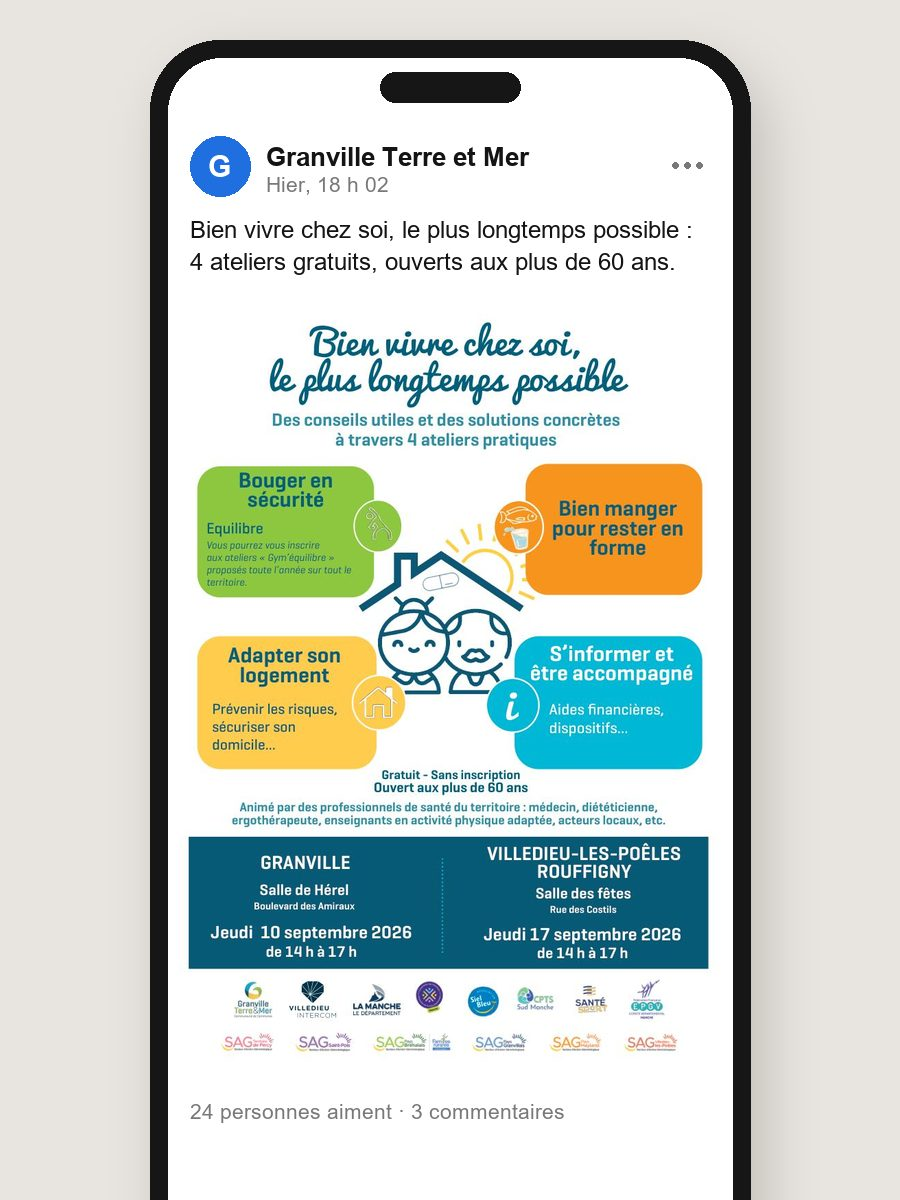
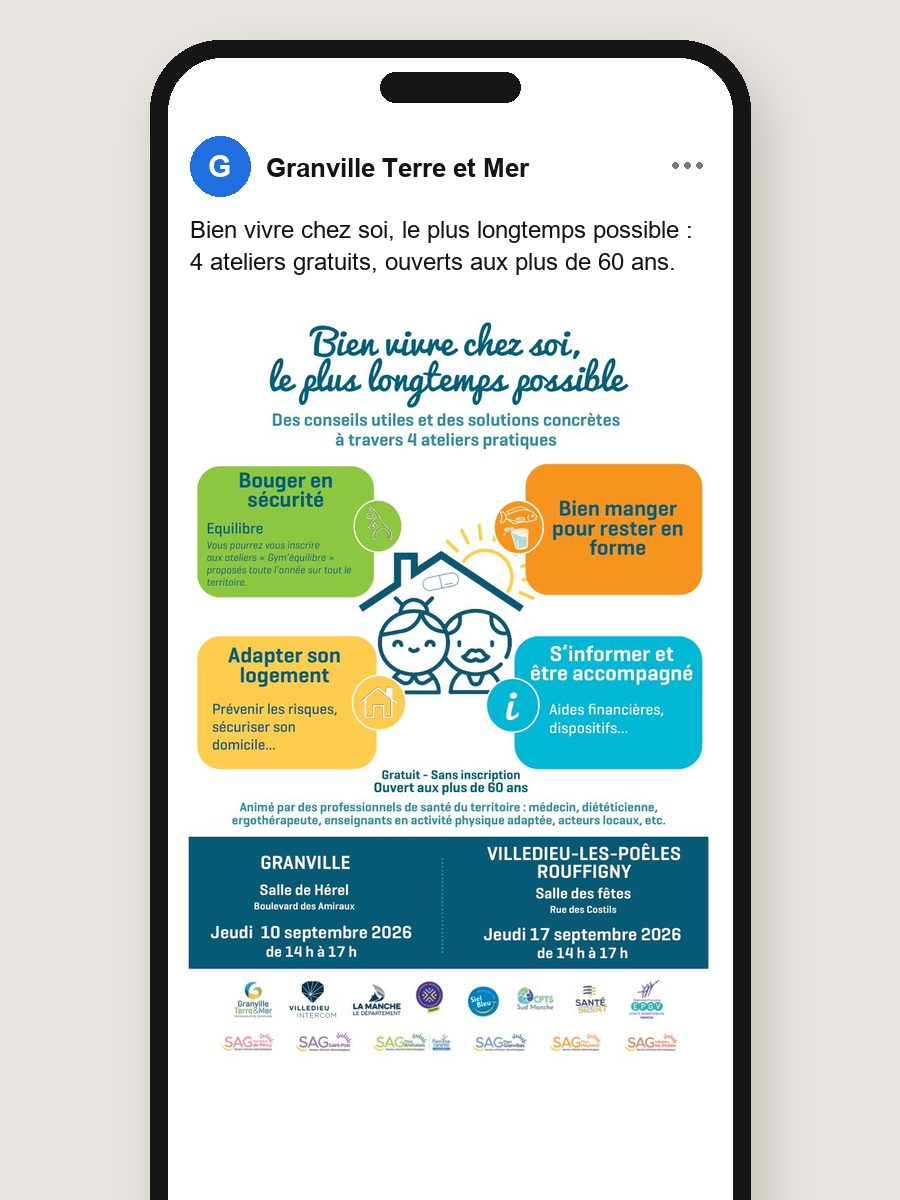
Nettoyage : plus de chiffres inventés ni de texte de remplissage, consignes raccourcies

Changed region(s): [[0.28, 0.1233, 0.5911, 0.1542], [0.2178, 0.925, 0.4356, 0.9558], [0.4978, 0.925, 0.6222, 0.9558]]

diff --git a/papier.html b/papier.html
@@ -131,8 +131,8 @@ function fiche(Q, carnet = 1, affiche = '') {
   return (G.trop && carnet === 1 ? `<p class="trop">Il y a trop de questions pour ce livret (huit par temps, trois temps) : masquez-en quelques-unes dans « Modifier le test ».</p>` : '') + `<div class="page fiche">
   <svg viewBox="0 0 420 297" xmlns="http://www.w3.org/2000/svg" font-family="'Scoutie Sans',Helvetica,Arial,sans-serif" fill="#151515">
     ${LIVRET_FOND}
-    ${T(117, 263.9, 'Votre affiche est en cours de Fabrication', 'font-size="3.3"')}${T(117, 267.8, 'Nous avons besoin de votre aide !', 'font-size="3.3"')}${T(117, 271.8, '...', 'font-size="3.3"')}${T(379.6, 278.4, 'Débattons !', 'font-size="4.04" font-weight="700"')}
-    ${T(111.6, 238, 'Carnet ' + carnet + ' sur 3 · Séance : ' + (EXEMPLE ? 'essai' : '..............') + ' · N° : ' + (EXEMPLE ? '1' : '........'), 'font-size="3.3" font-weight="700"')}${T(111.6, 243, 'Test ' + h(VERSION), 'font-size="2.4" fill="#6B6B6B"')}
+    ${T(117, 263.9, 'Votre affiche est en cours de Fabrication', 'font-size="3.3"')}${T(117, 267.8, 'Nous avons besoin de votre aide !', 'font-size="3.3"')}${T(379.6, 278.4, 'Débattons !', 'font-size="4.04" font-weight="700"')}
+    ${T(111.6, 238, 'Carnet ' + carnet + ' sur 3 · Séance : ' + (EXEMPLE ? 'essai' : '..............') + ' · N° : ' + (EXEMPLE ? '1' : '........'), 'font-size="3.3" font-weight="700"')}
     ${temps}${questions}
     ${REPERES.map(([x, y]) => `<circle cx="${x}" cy="${y}" r="3.5" fill="#000"/><circle cx="${x - 1}" cy="${y}" r=".65" fill="#fff"/><circle cx="${x + 1}" cy="${y}" r=".65" fill="#fff"/>`).join('')}
   </svg>
@@ -145,7 +145,7 @@ const affichesDispo = () => [...new Set(ETAPES.flatMap(e => [e.img, ...(e.imgs |
 const affichesCarnets = () => { const l = affichesDispo(); let c = []; try { c = JSON.parse(localStorage.getItem('pdvCarnets' + TEST)) || []; } catch (e) { } return [0, 1, 2].map(i => l.includes(c[i]) ? c[i] : l[i] || l[0] || ''); };
 let seul = 0; // 0 : les trois carnets ; 1, 2 ou 3 : ce carnet seulement (une feuille recto verso)
 const livrets = Q => { const A = affichesCarnets(), l = affichesDispo();
-  return `<div class="trop reglage"><b>Trois carnets par personne, un par affiche.</b> L'affiche imprimée au dos de chaque feuille : ${A.map((a, i) => `<label>Carnet ${i + 1} <select data-carnet="${i}">${l.map(x => `<option value="${h(x)}" ${x === a ? 'selected' : ''}>${h(x.replace(/^.*\//, '').replace(/\.\w+$/, ''))}</option>`).join('')}</select></label>`).join(' ')}<br><label>À imprimer <select data-seul><option value="0">les trois carnets (six pages)</option>${[1, 2, 3].map(i => `<option value="${i}" ${i === seul ? 'selected' : ''}>le carnet ${i} seul (une feuille recto verso)</option>`).join('')}</select></label> A3 paysage, recto verso, en retournant sur le petit côté : le carnet d'un côté, son affiche de l'autre.</div>` + A.map((a, i) => seul && seul !== i + 1 ? '' : fiche(Q, i + 1, a)).join(''); };
+  return `<div class="trop reglage"><b>Affiche au dos</b> ${A.map((a, i) => `<label>Carnet ${i + 1} <select data-carnet="${i}">${l.map(x => `<option value="${h(x)}" ${x === a ? 'selected' : ''}>${h(x.replace(/^.*\//, '').replace(/\.\w+$/, ''))}</option>`).join('')}</select></label>`).join(' ')}<br><label>À imprimer <select data-seul><option value="0">les trois carnets (six pages)</option>${[1, 2, 3].map(i => `<option value="${i}" ${i === seul ? 'selected' : ''}>le carnet ${i} seul (une feuille recto verso)</option>`).join('')}</select></label> A3 paysage, recto verso (petit côté).</div>` + A.map((a, i) => seul && seul !== i + 1 ? '' : fiche(Q, i + 1, a)).join(''); };
 // un texte trop long pour sa case rétrécit jusqu'à tenir
 const ajuster = () => document.querySelectorAll('.ft').forEach(d => { let t = parseFloat(d.style.fontSize) || 4.04; while (d.scrollHeight > d.clientHeight + 1 && t > 2.6) d.style.fontSize = (t -= .15) + 'mm'; });
 
@@ -264,7 +264,7 @@ function lignes() { // les réponses lues, au même format que celles des télé
 }
 function vueLire() {
   return `<div class="scan"><h1>Photographier les fiches</h1>
-    <ol><li>Dépliez le livret rempli et posez la feuille bien à plat, sous une bonne lumière.</li><li>Photographiez-la en entier : les quatre ronds noirs des coins doivent être visibles. Elle peut être de travers ou tournée.</li><li>Si les cercles ne tombent pas sur les ronds, faites glisser les poignées orange sur les quatre ronds noirs des coins (ou décalez tout avec les flèches).</li><li>Vérifiez les réponses lues : un clic sur la photo ou dans la liste sous la photo ajoute ou retire une réponse.</li><li>Recopiez les réponses écrites à la main, affichées sous la photo, puis enregistrez : les réponses rejoignent « Étudier les données ».</li></ol>
+    <ol><li>Dépliez le livret et photographiez la feuille entière, à plat.</li><li>Vérifiez les réponses lues, corrigez d'un clic.</li><li>Recopiez les réponses écrites, puis enregistrez.</li></ol>
     <div class="deux"><label>Séance<input type="text" id="seance" value="${h(new URLSearchParams(location.search).get('seance') || 'papier')}" maxlength="12"></label><label>Participant n°<input type="number" id="numero" value="1" min="1"></label><label>Carnet (affiche)<select id="carnet"><option>1</option><option>2</option><option>3</option></select></label></div>
     <label class="btn noir" style="align-self:flex-start">Photographier ou choisir une photo<input type="file" accept="image/*" capture="environment" hidden id="fichier"></label>
     <p class="etat" id="etat">Aucune photo pour l'instant. La lecture se fait dans ce navigateur, la photo n'est envoyée nulle part.</p>
@@ -281,7 +281,7 @@ function apercu(Q) {
   const feuille = fiche(Q).replace(/^[\s\S]*?<div class="page fiche">/, '').replace(/<\/div>\s*$/, ''), V = PAGES; // couverture, six pages, dos
   const page = ([px, bas]) => `<div class="volet"><div style="transform:${bas ? `translate(${-px}mm,${-VH}mm)` : `translate(${px + VW}mm,${VH}mm) rotate(180deg)`}">${feuille}</div></div>`;
   const noms = ['La couverture', 'Pages 1 et 2', 'Pages 3 et 4', 'Pages 5 et 6', 'Le dos'];
-  return `<p class="trop">Le livret une fois plié, page après page. Pour l'imprimer : onglet « Le livret à plier », en A3 paysage, recto verso : l'affiche du carnet est au dos et apparaît quand on déplie la feuille.</p>`
+  return ``
     + [[0], [1, 2], [3, 4], [5, 6], [7]].map((l, i) => `<figure class="double"><div>${l.map(k => page(V[k])).join('')}</div><figcaption>${noms[i]}</figcaption></figure>`).join('');
 }
 // ---------- le reste à imprimer : les affiches du test, une par page A4 ----------
